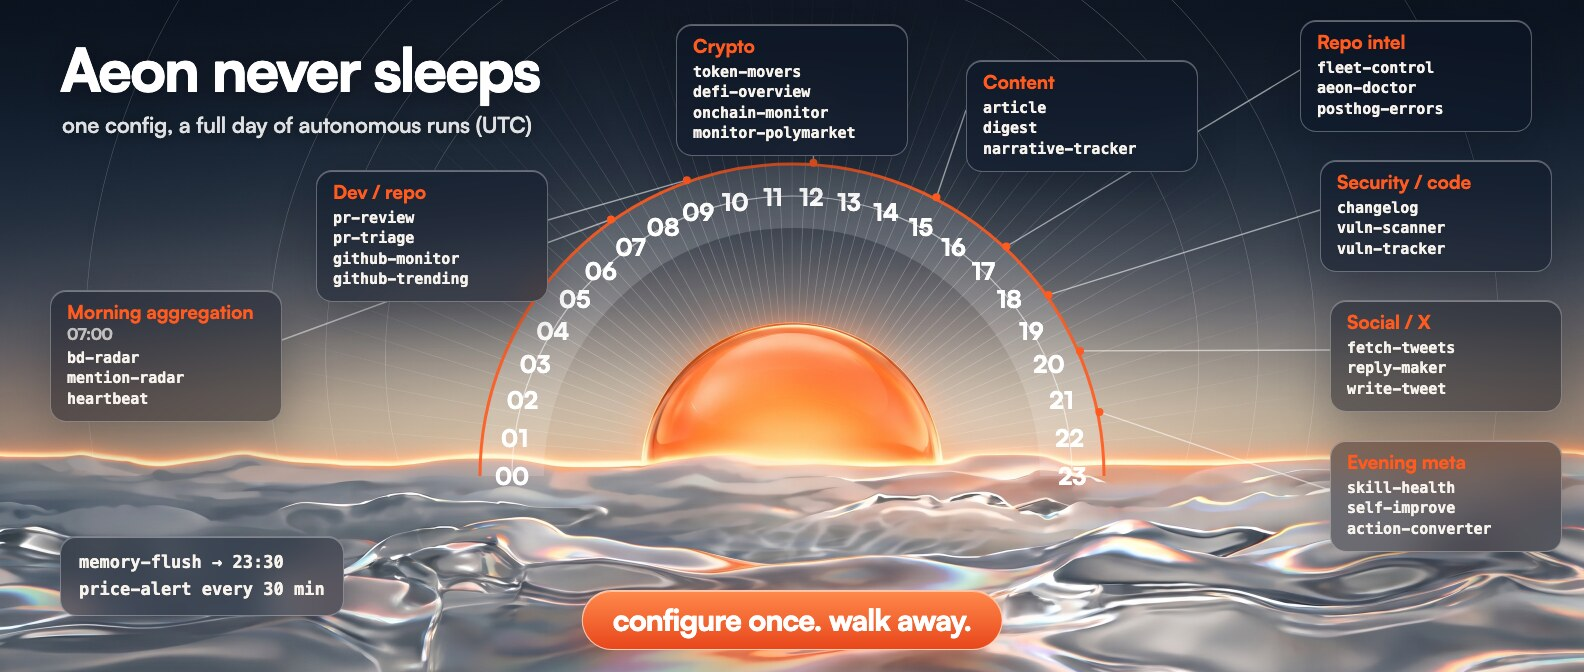
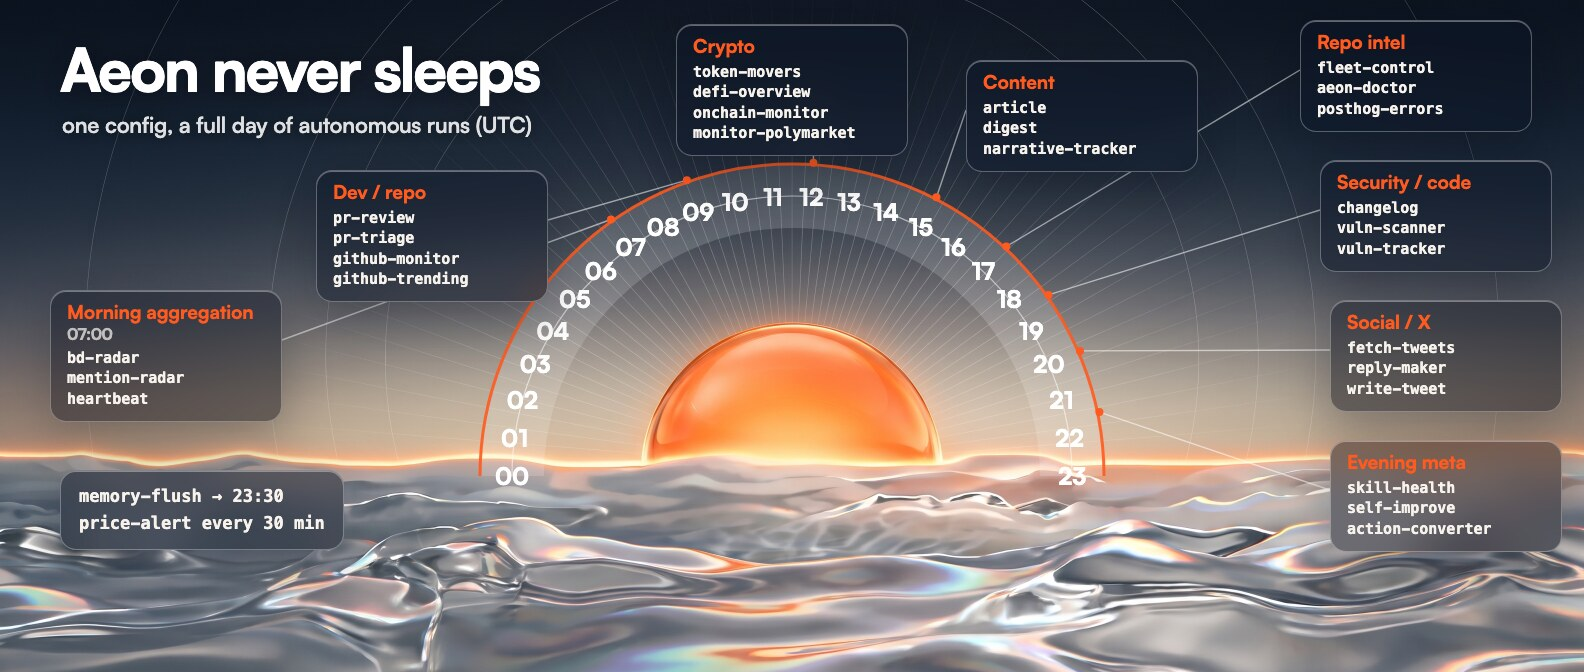
README art: fix stale counts and drop retired slogan lines (#1393)
- harnesses-aeon: Nine -> Ten engines, add Droid
- providers: 7 -> Ten providers, add Grok, GLM, HivemindOS
- free-aeon: model tiers -> Haiku 5.5, Sonnet 5.5, Opus 5.5
- proof-aeon: 9 -> 20 community skill packs (catalog/skill-packs.json)
- autonomy-aeon, never-sleeps-aeon: remove retired slogan lines
- alt text updated to match

Text layer re-rendered over the same art at the same size.

Changed region(s): [[0.0309, 0.6875, 0.2165, 0.9375], [0.3403, 0.875, 0.6496, 1.0]]

diff --git a/.github/README.md b/.github/README.md
@@ -132,7 +132,7 @@ fetch-tweets, shiplog, and mention-radar read X through [TwitterAPI.io](https://
 ## Support ten harnesses: Claude, Grok, Codex, Pi, Vibe, Kimi, fx, Cursor, Hermes, Droid
 
 <p align="center">
-  <img src="../docs/assets/harnesses-aeon.jpg" alt="Nine engines, one socket - a SKILL.md flows through run-harness into any of ten agent CLIs: Claude, Grok, Codex, Pi, Vibe, Kimi, fx, Cursor, Hermes, Droid. Every harness honors the same contract: result, usage, session." width="100%" />
+  <img src="../docs/assets/harnesses-aeon.jpg" alt="Ten engines, one socket - a SKILL.md flows through run-harness into any of ten agent CLIs: Claude, Grok, Codex, Pi, Vibe, Kimi, fx, Cursor, Hermes, Droid. Every harness honors the same contract: result, usage, session." width="100%" />
 </p>
 
 The same `SKILL.md` runs on any of ten agent CLIs - **Claude**, **Grok**, **Codex**, **Pi**, **Vibe**, **Kimi**, **fx**, **Cursor**, **Hermes**, **Droid** - behind one `run-harness` contract (same result, usage, and session shape). Swap the harness; nothing else changes. How the contract works: [`docs/harnesses.md`](../docs/harnesses.md). GLM Coding Plan is a Claude AI Gateway hop (`GLM_API_KEY`), not a harness.
@@ -148,7 +148,7 @@ Full comparison vs Claude Code, Hermes, and OpenClaw: [`SHOWCASE.md`](../docs/SH
 ## Proof of work
 
 <p align="center">
-  <img src="../docs/assets/proof-aeon.jpg" alt="Proof of work, live at aeon.fun: 4.7M GitHub stars secured across 100+ open-source repos, 70+ products and agents built on Aeon, and 9 community skill packs." width="100%" />
+  <img src="../docs/assets/proof-aeon.jpg" alt="Proof of work, live at aeon.fun: 4.7M GitHub stars secured across 100+ open-source repos, 70+ products and agents built on Aeon, and 20 community skill packs." width="100%" />
 </p>
 
 Live at **[aeon.fun](https://www.aeon.fun)**: **4.7M GitHub stars secured** - real vulnerabilities found, patched, and responsibly disclosed across 100+ open-source repos (**Alibaba**, **Tencent**, **Vercel**, and more), many rated High or Critical. **70+ products built on top of Aeon.**

diff --git a/docs/CONFIGURATION.md b/docs/CONFIGURATION.md
@@ -186,7 +186,7 @@ Per-skill execution state (`memory/cron-state.json` — status, success rate, qu
 ## LLM Gateways
 
 <p align="center">
-  <img src="../docs/assets/providers.jpg" alt="9 ways to power Claude Code: Claude subscription, Anthropic API, OpenRouter, Bankr, UsePod, Venice, Surplus, Grok, GLM" width="640" />
+  <img src="../docs/assets/providers.jpg" alt="10 ways to power Claude Code: Claude subscription, Anthropic API, OpenRouter, Bankr, UsePod, Venice, Surplus, Grok, GLM, HivemindOS" width="640" />
 </p>
 
 Aeon can power Claude Code **ten** ways. Two are **direct** to Anthropic; the other eight route through a **gateway**. Press **Connect a model** in the dashboard to add a credential; it's saved as the secret below (HivemindOS is not in the modal yet - set `HIVEMINDOS_CREDIT_TOKEN` as a repo secret directly). (Separately, the [Grok Build harness](harnesses.md) runs the `grok` CLI instead of Claude Code - that's a different axis from the gateways here.)
